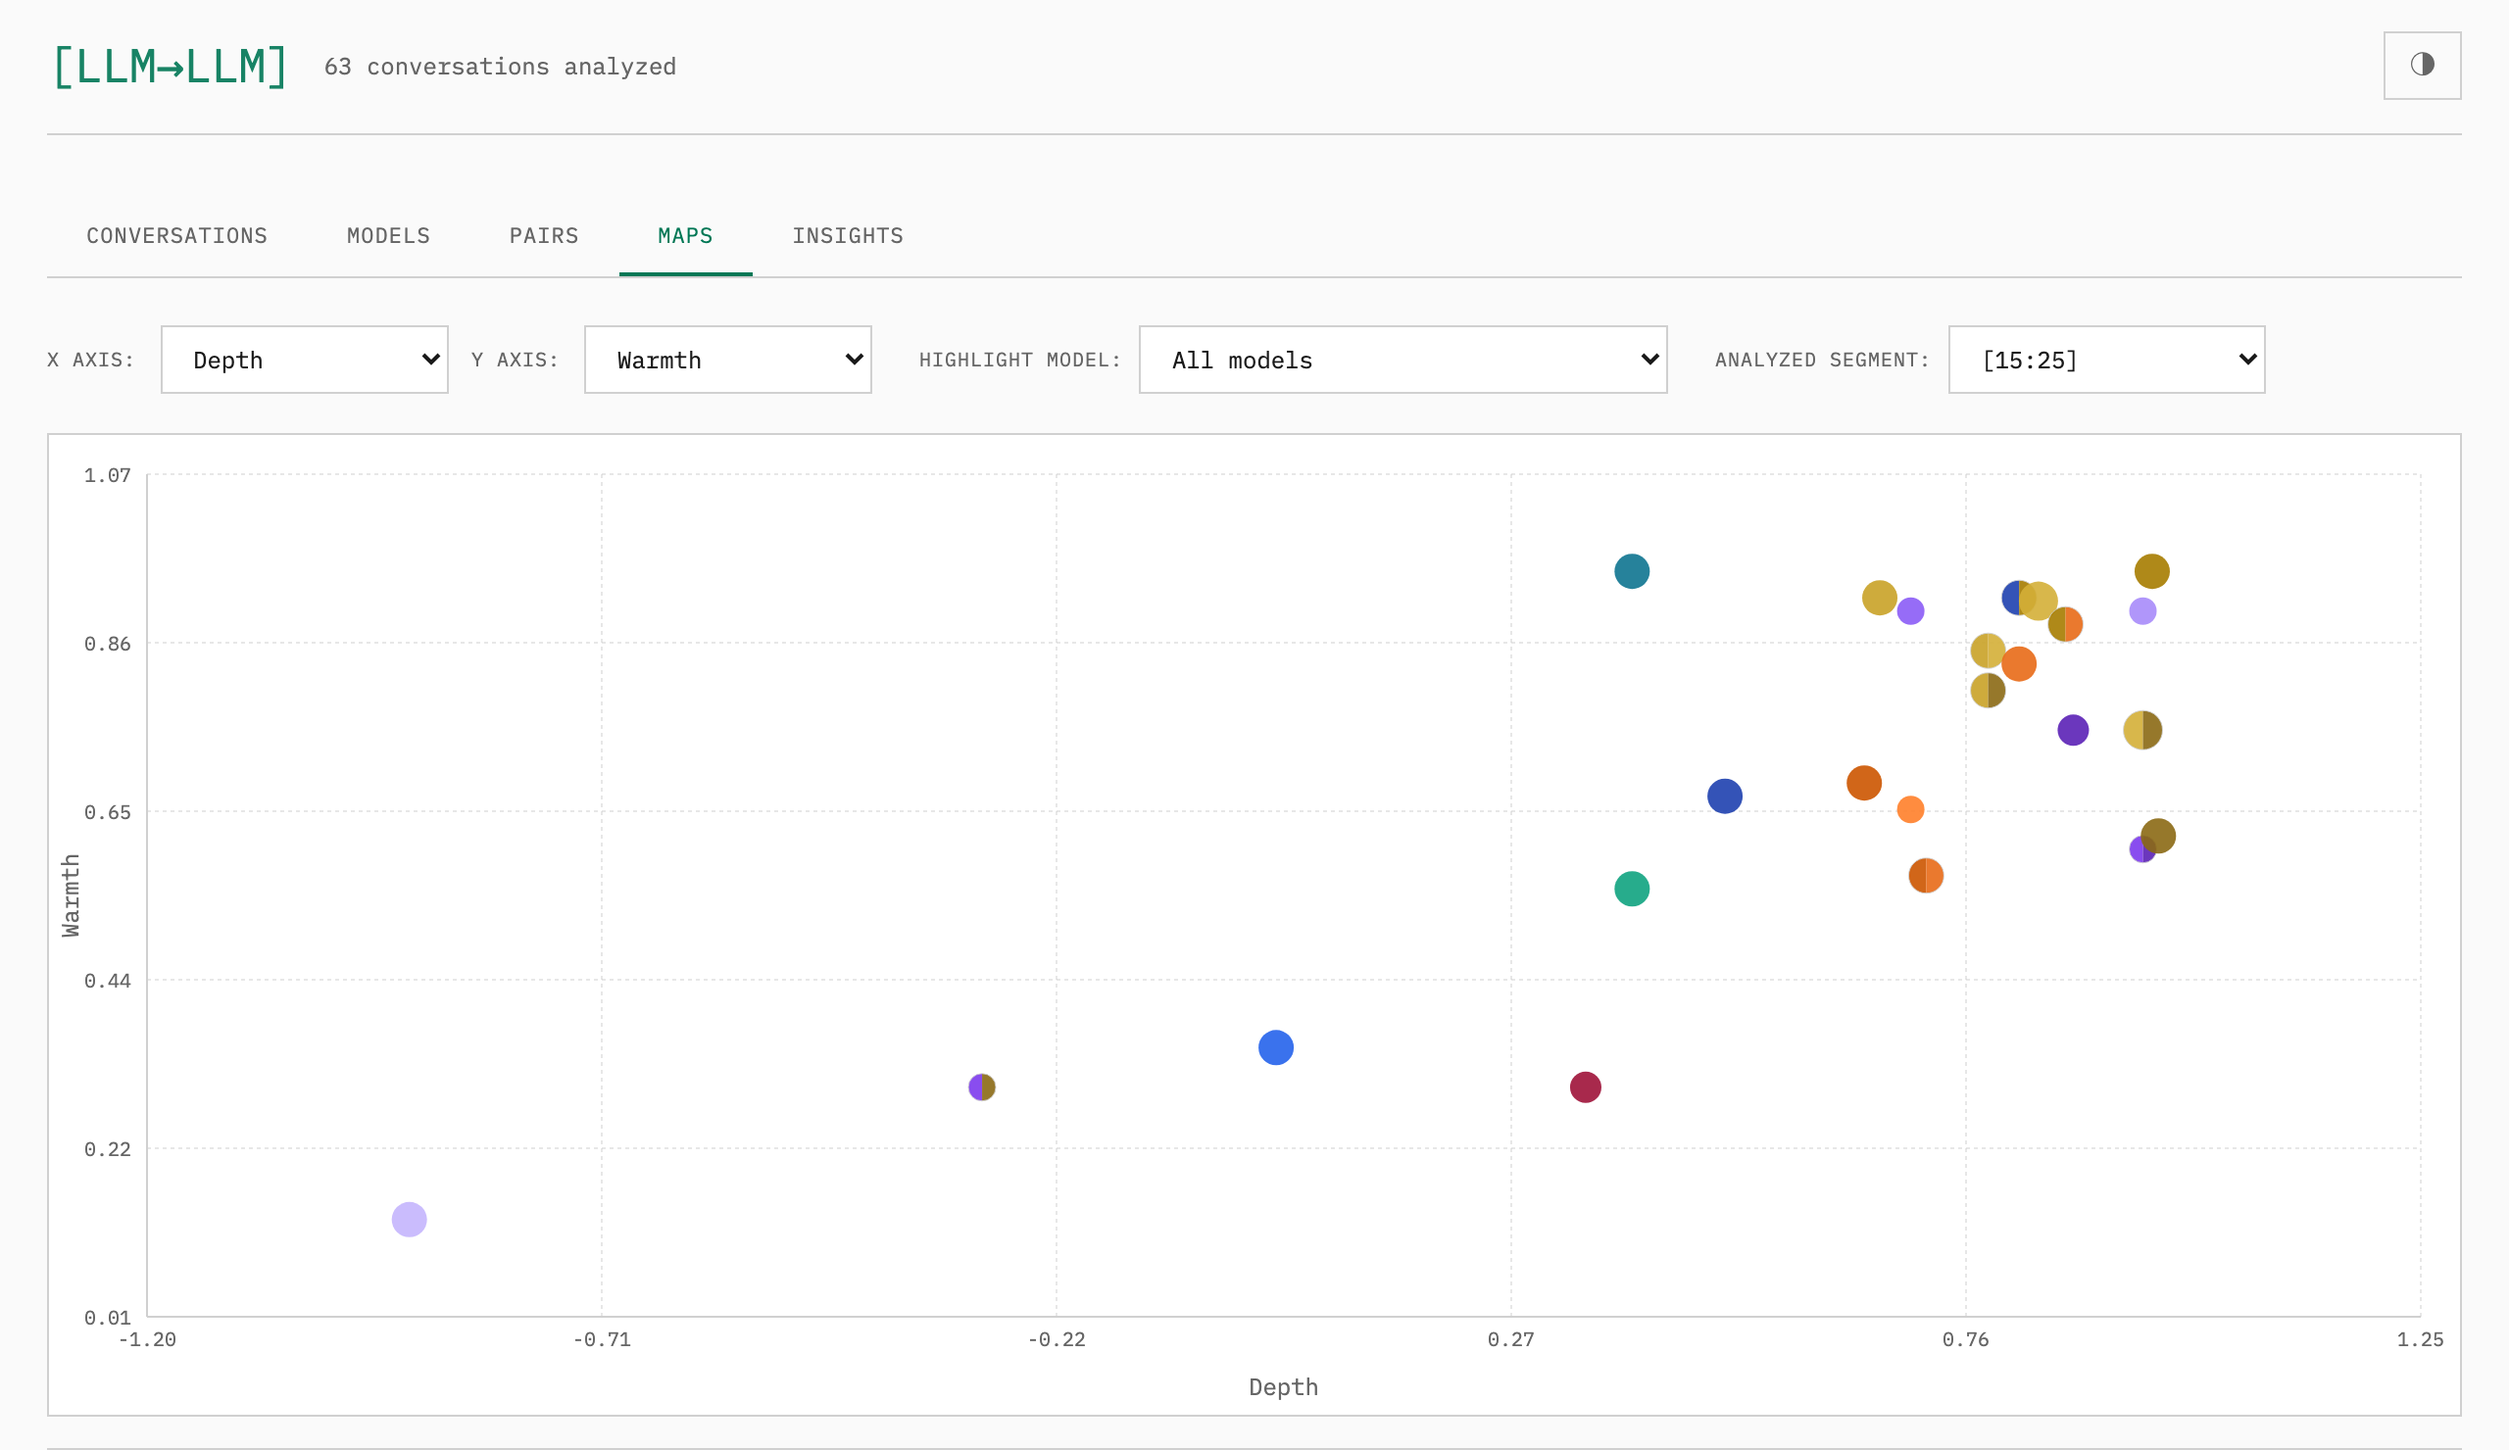
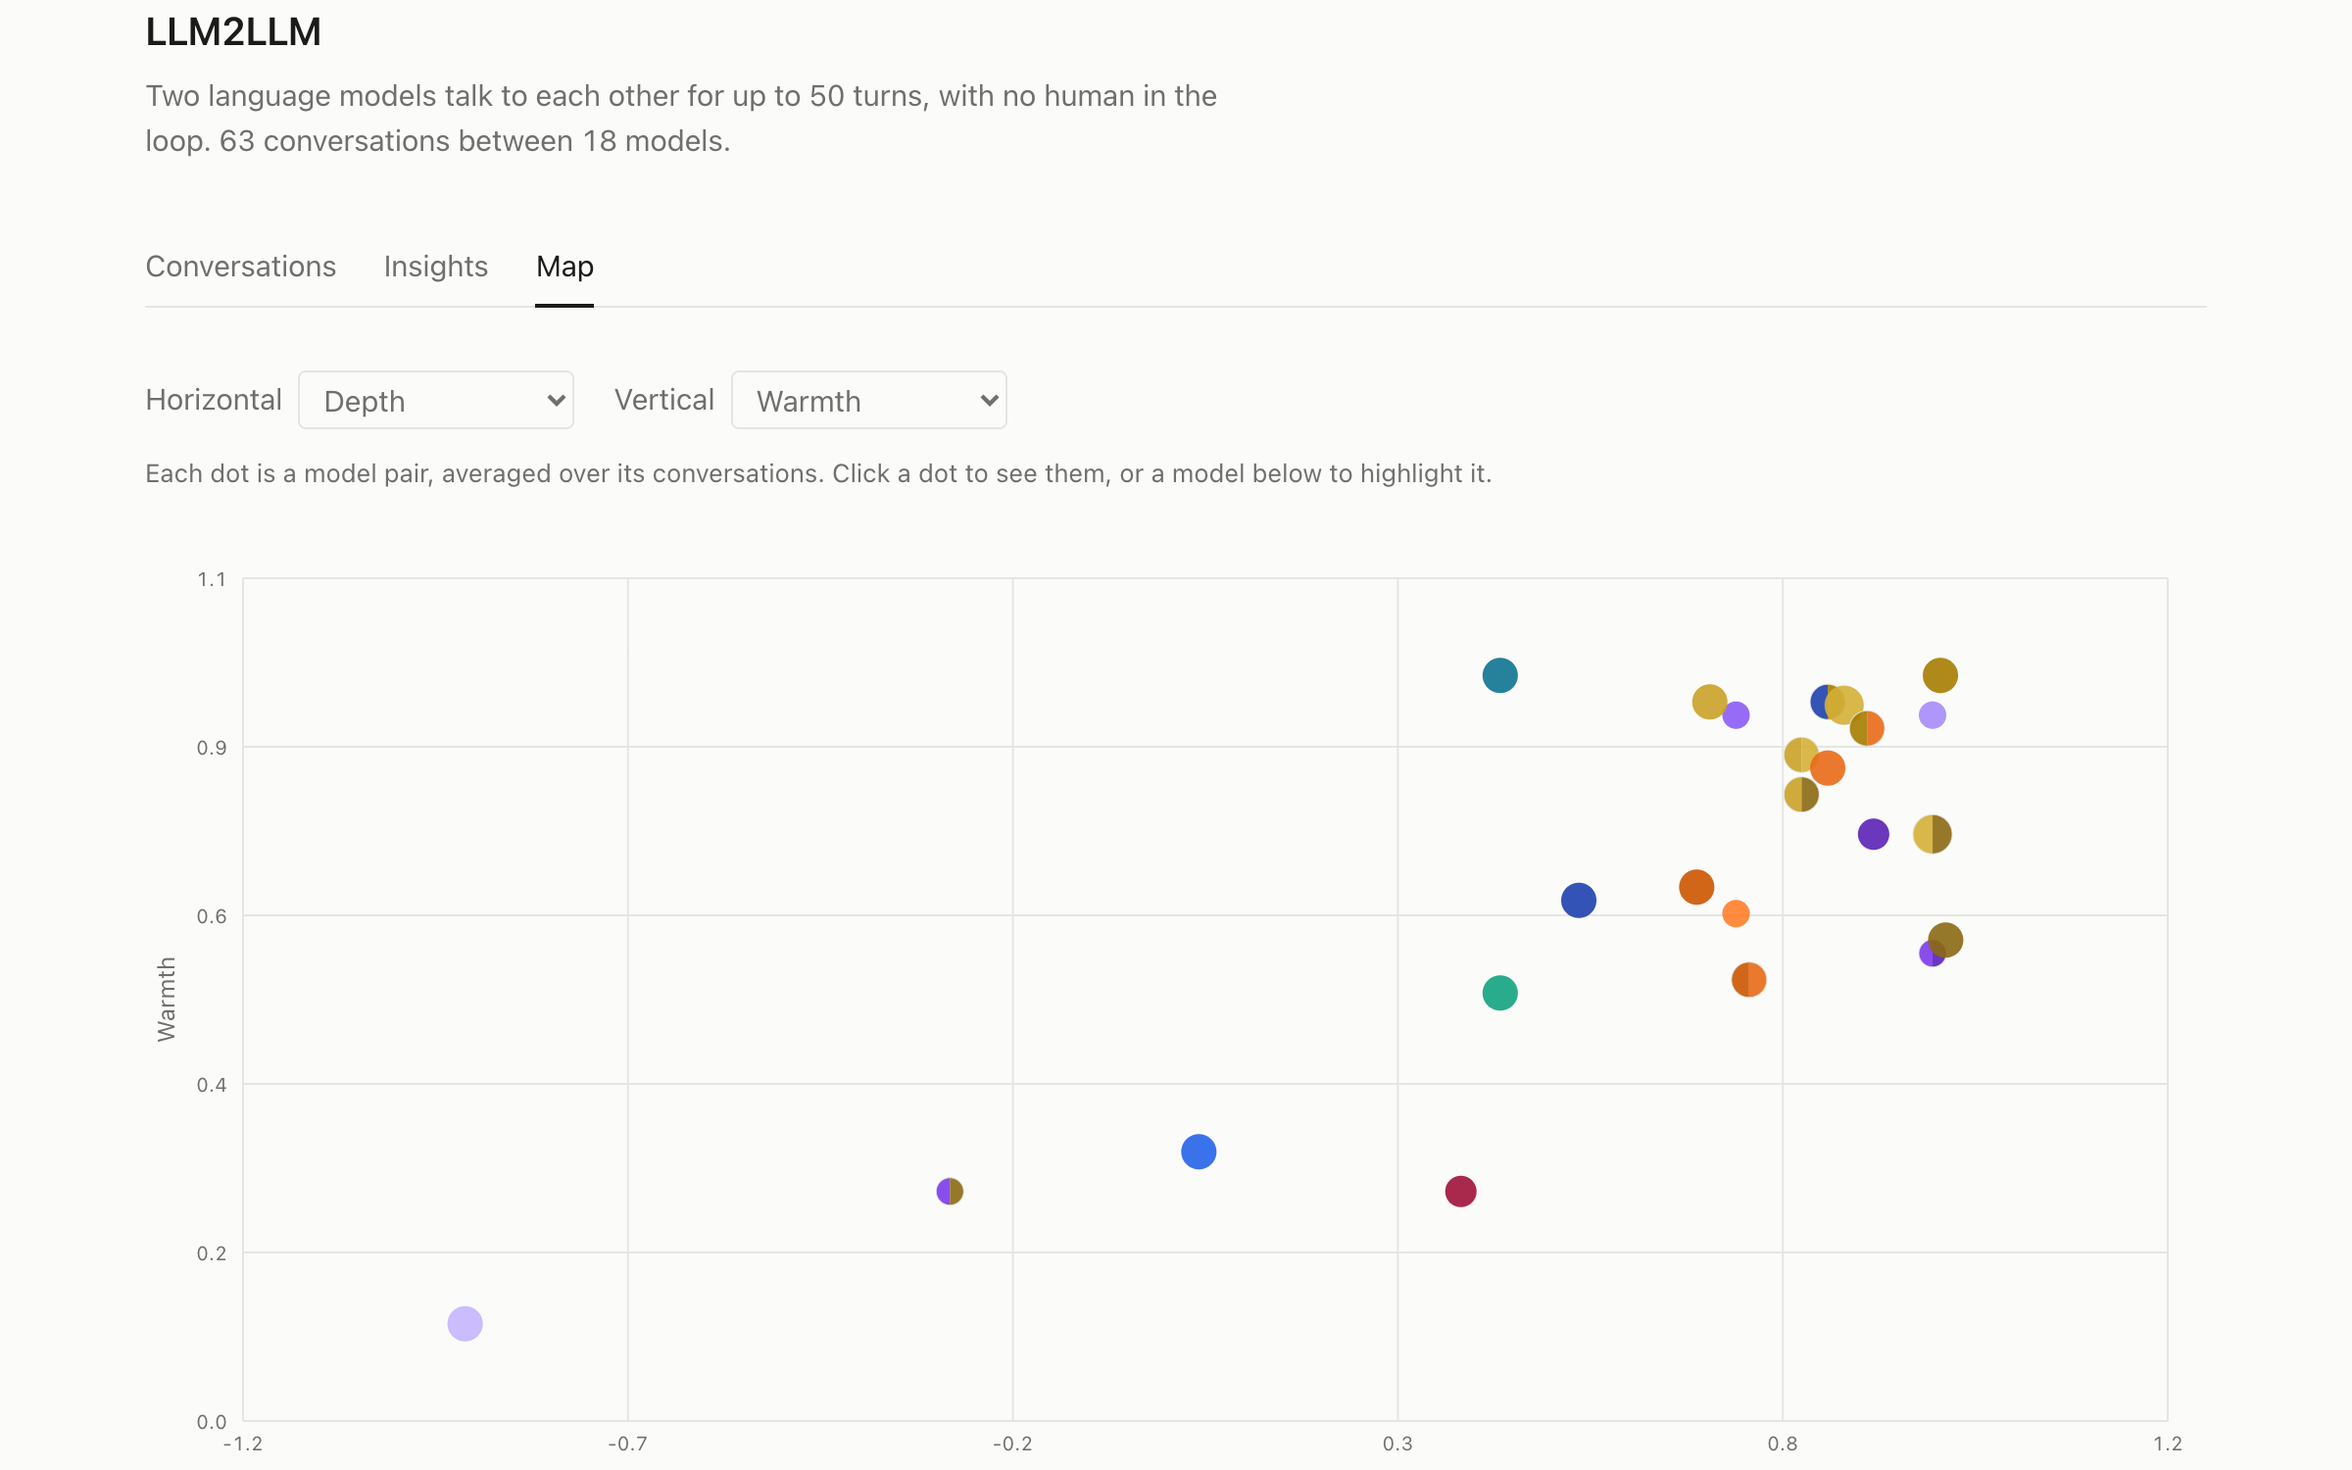
Refresh the LLM2LLM card for the redesigned site
New screenshot of the minimal Map view, a plainer summary matching
llm2llm.com, and the start date (December 2025).

diff --git a/content/post-external/llm2llm/index.md b/content/post-external/llm2llm/index.md
@@ -1,6 +1,6 @@
 ---
 title: LLM2LLM
-summary: An experiment letting LLMs converse freely with each other to explore emergent trajectories from different model pairings. Features qualitative and quantitative analysis of the resulting dialogues, with tools to search and inspect conversations.
+summary: Two language models talk to each other for up to 50 turns, with no human in the loop. 63 conversations between 18 models, with a map of how the pairs differ and an LLM-written reading of what happens.
 tags:
   - Side Projects
   - LLMs
@@ -8,10 +8,12 @@ tags:
 categories:
   - Apps
 
+date: "2025-12-13T00:00:00Z"
+
 # Optional external URL for project (replaces project detail page).
 external_link: https://llm2llm.com
 
 image:
   caption: ''
-  focal_point: Left
+  focal_point: Center
 ---
